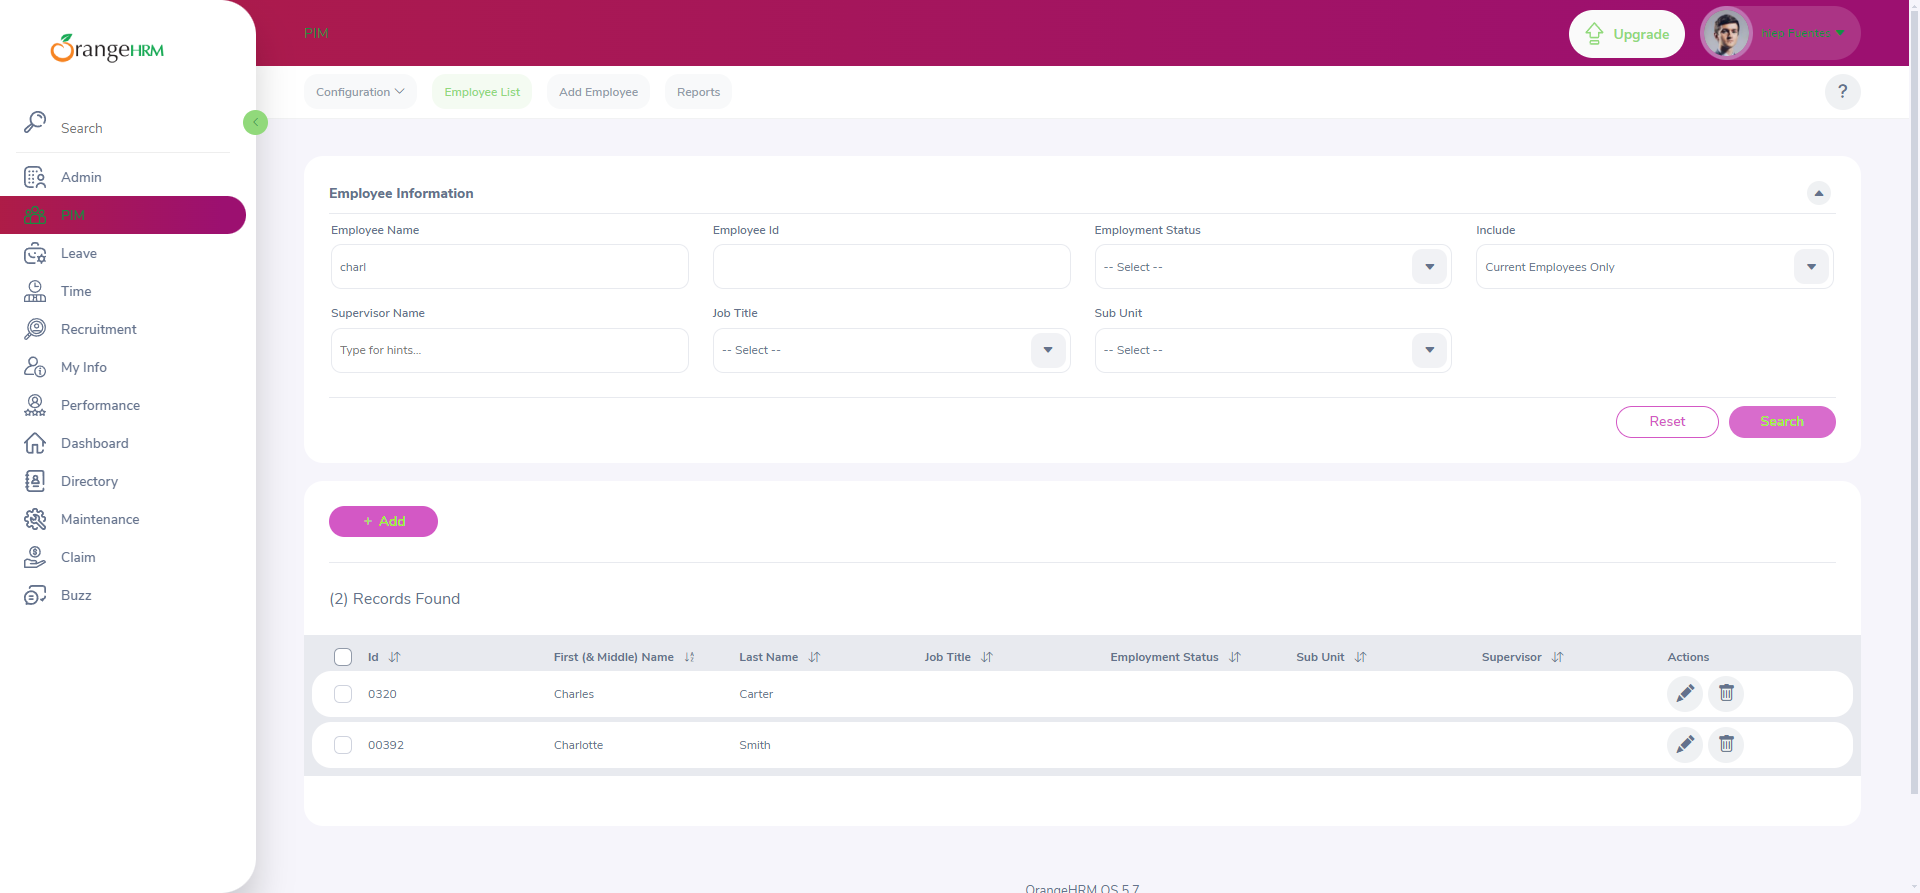
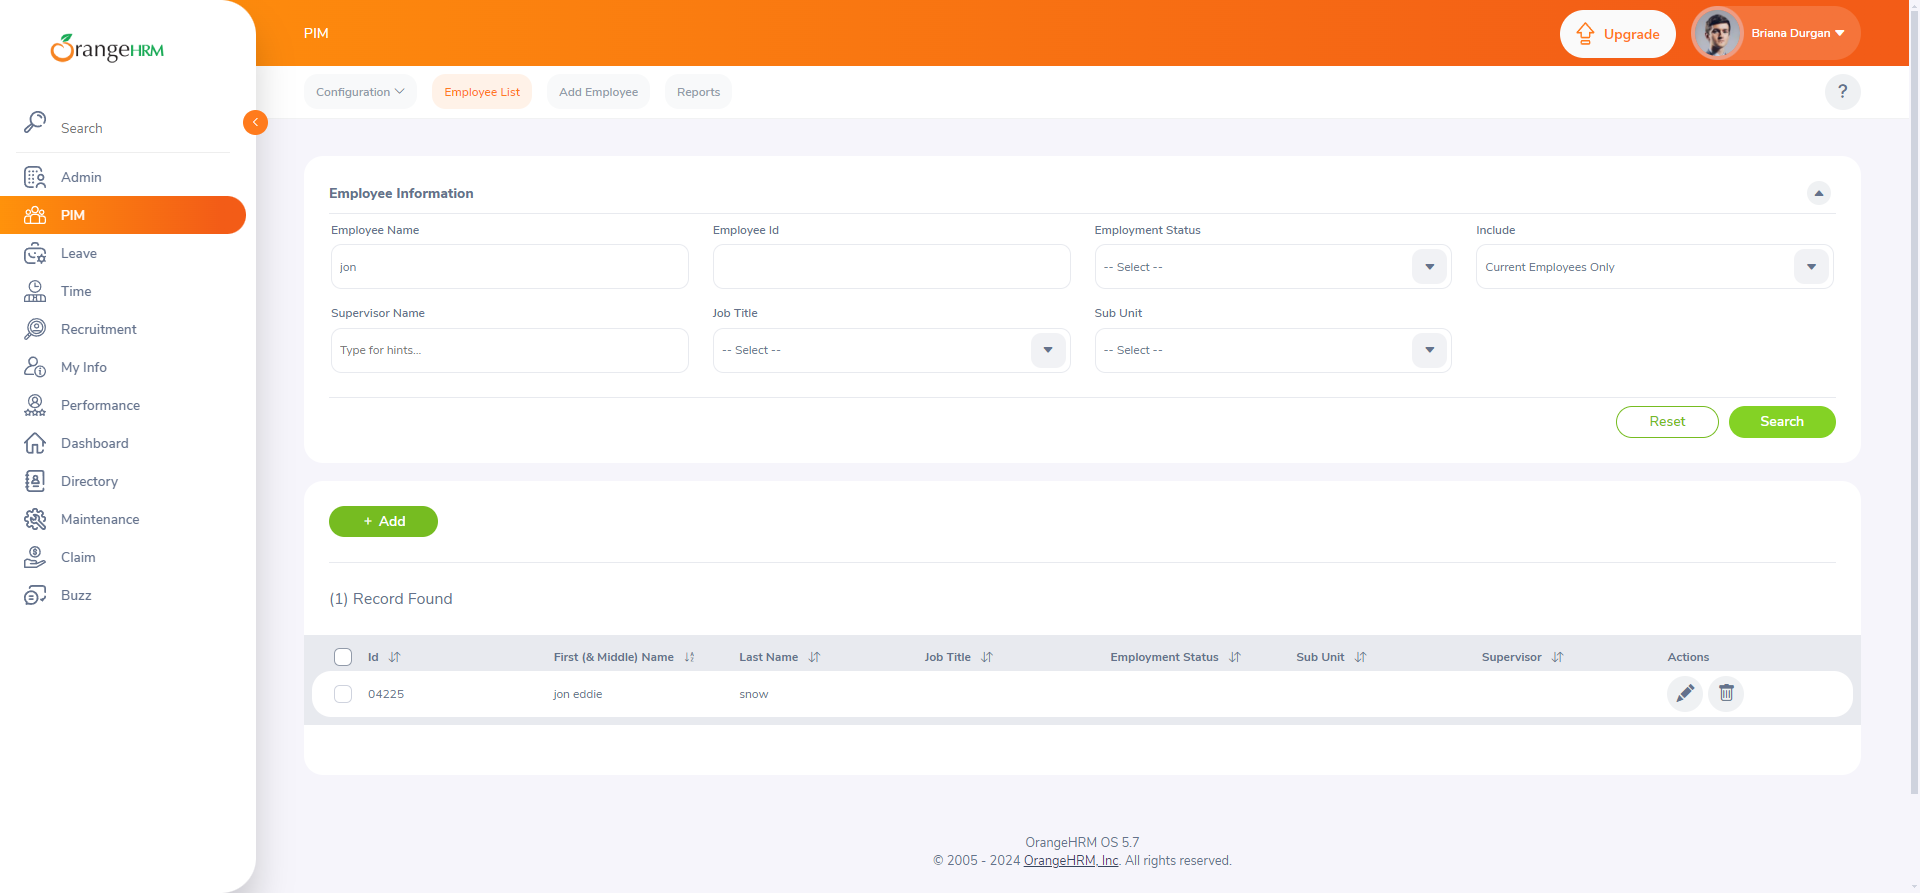
addded run.bat

diff --git a/Reports/report_regression.html b/Reports/report_regression.html
@@ -7,7 +7,7 @@
   </head>
   <body>
     <h1 id="title">Pytest HTML Report for dev</h1>
-    <p>Report generated on 07-Dec-2024 at 10:37:06 by <a href="https://pypi.python.org/pypi/pytest-html">pytest-html</a>
+    <p>Report generated on 07-Dec-2024 at 10:38:25 by <a href="https://pypi.python.org/pypi/pytest-html">pytest-html</a>
         v4.1.1</p>
     <div id="environment-header">
       <h2>Environment</h2>
@@ -61,7 +61,7 @@
         <h2>Summary</h2>
         <div class="additional-summary prefix">
         </div>
-        <p class="run-count">2 tests took 00:00:52.</p>
+        <p class="run-count">3 tests took 00:01:09.</p>
         <p class="filter">(Un)check the boxes to filter the results.</p>
         <div class="summary__reload">
           <div class="summary__reload__button hidden" onclick="location.reload()">
@@ -74,7 +74,7 @@
             <input checked="true" class="filter" name="filter_checkbox" type="checkbox" data-test-result="failed" disabled/>
             <span class="failed">0 Failed,</span>
             <input checked="true" class="filter" name="filter_checkbox" type="checkbox" data-test-result="passed" />
-            <span class="passed">2 Passed,</span>
+            <span class="passed">3 Passed,</span>
             <input checked="true" class="filter" name="filter_checkbox" type="checkbox" data-test-result="skipped" disabled/>
             <span class="skipped">0 Skipped,</span>
             <input checked="true" class="filter" name="filter_checkbox" type="checkbox" data-test-result="xfailed" disabled/>
@@ -108,7 +108,7 @@
     </table>
   </body>
   <footer>
-    <div id="data-container" data-jsonblob="{&#34;environment&#34;: {&#34;Python&#34;: &#34;3.10.2&#34;, &#34;Platform&#34;: &#34;Windows-10-10.0.22631-SP0&#34;, &#34;Plugins&#34;: {&#34;html&#34;: &#34;4.1.1&#34;, &#34;metadata&#34;: &#34;3.1.1&#34;}, &#34;Project name&#34;: &#34;Orange HRM&#34;, &#34;Tester&#34;: &#34;Anbulingam&#34;}, &#34;tests&#34;: {&#34;LoginPage.py::Test_001_login::test_login_check&#34;: [{&#34;extras&#34;: [], &#34;result&#34;: &#34;Passed&#34;, &#34;testId&#34;: &#34;LoginPage.py::Test_001_login::test_login_check&#34;, &#34;duration&#34;: &#34;00:00:16&#34;, &#34;resultsTableRow&#34;: [&#34;&lt;td class=\&#34;col-result\&#34;&gt;Passed&lt;/td&gt;&#34;, &#34;&lt;td class=\&#34;col-testId\&#34;&gt;LoginPage.py::Test_001_login::test_login_check&lt;/td&gt;&#34;, &#34;&lt;td class=\&#34;col-duration\&#34;&gt;00:00:16&lt;/td&gt;&#34;, &#34;&lt;td class=\&#34;col-links\&#34;&gt;&lt;/td&gt;&#34;], &#34;log&#34;: &#34;----------------------------- Captured stdout call -----------------------------\nLogin passed\n\n------------------------------ Captured log call -------------------------------\nINFO     root:LoginPage.py:32 ***********Setting up the driver*********\nINFO     root:LoginPage.py:37 *********Trying to Login*********\nINFO     root:LoginPage.py:42 **********Login Passed************\nINFO     root:LoginPage.py:44 *******Logged out***********\n\n&#34;}], &#34;AddEmpPage.py::Test_003_addEmp::test_addEmp&#34;: [{&#34;extras&#34;: [], &#34;result&#34;: &#34;Passed&#34;, &#34;testId&#34;: &#34;AddEmpPage.py::Test_003_addEmp::test_addEmp&#34;, &#34;duration&#34;: &#34;00:00:36&#34;, &#34;resultsTableRow&#34;: [&#34;&lt;td class=\&#34;col-result\&#34;&gt;Passed&lt;/td&gt;&#34;, &#34;&lt;td class=\&#34;col-testId\&#34;&gt;AddEmpPage.py::Test_003_addEmp::test_addEmp&lt;/td&gt;&#34;, &#34;&lt;td class=\&#34;col-duration\&#34;&gt;00:00:36&lt;/td&gt;&#34;, &#34;&lt;td class=\&#34;col-links\&#34;&gt;&lt;/td&gt;&#34;], &#34;log&#34;: &#34;----------------------------- Captured stdout call -----------------------------\nNo toaster message\n\n------------------------------ Captured log call -------------------------------\nINFO     root:AddEmpPage.py:28 *********Test003_addemp  started***********\nINFO     root:AddEmpPage.py:29 **********Logging in***************\nINFO     root:AddEmpPage.py:40 *******Logged in*************\nINFO     root:AddEmpPage.py:45 **********Employee name added*************\nINFO     root:AddEmpPage.py:48 **********Credits added*************\nINFO     root:AddEmpPage.py:50 ********Profile pic added*********\nINFO     root:AddEmpPage.py:52 **********USER ADDED Successfully****************\nINFO     root:AddEmpPage.py:75 **********Toaster not presented*************\nINFO     root:AddEmpPage.py:64 *********SCREENSHOT TAKEN*************\n\n&#34;}]}, &#34;renderCollapsed&#34;: [&#34;passed&#34;], &#34;initialSort&#34;: &#34;result&#34;, &#34;title&#34;: &#34;Pytest HTML Report for dev&#34;}"></div>
+    <div id="data-container" data-jsonblob="{&#34;environment&#34;: {&#34;Python&#34;: &#34;3.10.2&#34;, &#34;Platform&#34;: &#34;Windows-10-10.0.22631-SP0&#34;, &#34;Plugins&#34;: {&#34;html&#34;: &#34;4.1.1&#34;, &#34;metadata&#34;: &#34;3.1.1&#34;}, &#34;Project name&#34;: &#34;Orange HRM&#34;, &#34;Tester&#34;: &#34;Anbulingam&#34;}, &#34;tests&#34;: {&#34;SearchEmpPage.py::Test_004_searchEmp::test_SearchEmp&#34;: [{&#34;extras&#34;: [], &#34;result&#34;: &#34;Passed&#34;, &#34;testId&#34;: &#34;SearchEmpPage.py::Test_004_searchEmp::test_SearchEmp&#34;, &#34;duration&#34;: &#34;00:00:19&#34;, &#34;resultsTableRow&#34;: [&#34;&lt;td class=\&#34;col-result\&#34;&gt;Passed&lt;/td&gt;&#34;, &#34;&lt;td class=\&#34;col-testId\&#34;&gt;SearchEmpPage.py::Test_004_searchEmp::test_SearchEmp&lt;/td&gt;&#34;, &#34;&lt;td class=\&#34;col-duration\&#34;&gt;00:00:19&lt;/td&gt;&#34;, &#34;&lt;td class=\&#34;col-links\&#34;&gt;&lt;/td&gt;&#34;], &#34;log&#34;: &#34;----------------------------- Captured stdout call -----------------------------\n(1) Record Found\nReceived name jon eddie\nMatched name : jon eddiesnow\npass\n\n------------------------------ Captured log call -------------------------------\nINFO     root:SearchEmpPage.py:24 ***********Test004_searchEmp started*************\nINFO     root:SearchEmpPage.py:29 ***********Logging IN*************\nINFO     root:SearchEmpPage.py:33 ***********Login success*************\nINFO     root:SearchEmpPage.py:37 ***********Entering Emp-name*************\nINFO     root:SearchEmpPage.py:66 *************Name matched**********\nINFO     root:SearchEmpPage.py:50 *********Screenshot taken***************\nINFO     root:SearchEmpPage.py:51 *********SearchEmp completed***************\n\n&#34;}], &#34;DeleteEmp.py::Test_005_deleteEmp::test_deleteEmp&#34;: [{&#34;extras&#34;: [], &#34;result&#34;: &#34;Passed&#34;, &#34;testId&#34;: &#34;DeleteEmp.py::Test_005_deleteEmp::test_deleteEmp&#34;, &#34;duration&#34;: &#34;00:00:25&#34;, &#34;resultsTableRow&#34;: [&#34;&lt;td class=\&#34;col-result\&#34;&gt;Passed&lt;/td&gt;&#34;, &#34;&lt;td class=\&#34;col-testId\&#34;&gt;DeleteEmp.py::Test_005_deleteEmp::test_deleteEmp&lt;/td&gt;&#34;, &#34;&lt;td class=\&#34;col-duration\&#34;&gt;00:00:25&lt;/td&gt;&#34;, &#34;&lt;td class=\&#34;col-links\&#34;&gt;&lt;/td&gt;&#34;], &#34;log&#34;: &#34;----------------------------- Captured stdout call -----------------------------\n(1) Record Found\nNumber of rows 1\nGiven name : jon\nReceived name: jon eddie\nMatched name : jon eddiesnow\nToaster message:  Successfully Deleted\nError message Message: \n\n\n------------------------------ Captured log call -------------------------------\nINFO     root:DeleteEmp.py:23 ***********Test005_deleteEmp started*************\nINFO     root:DeleteEmp.py:28 ***********Logging IN*************\nINFO     root:DeleteEmp.py:32 ***********Login success*************\nINFO     root:DeleteEmp.py:36 ***********Entering Emp-name*************\nINFO     root:SearchEmpPage.py:103 *************Name matched**********\nINFO     root:SearchEmpPage.py:107 ***********Employee selected**************\nINFO     root:SearchEmpPage.py:110 ************Employee Deleted***************\nINFO     root:AddEmpPage.py:72 **********Toaster message presented*********\nINFO     root:DeleteEmp.py:47 *********Screenshot taken***************\n\n&#34;}], &#34;Login_DDT.py::Test_002_loginDDT::test_login_DDT&#34;: [{&#34;extras&#34;: [], &#34;result&#34;: &#34;Passed&#34;, &#34;testId&#34;: &#34;Login_DDT.py::Test_002_loginDDT::test_login_DDT&#34;, &#34;duration&#34;: &#34;00:00:25&#34;, &#34;resultsTableRow&#34;: [&#34;&lt;td class=\&#34;col-result\&#34;&gt;Passed&lt;/td&gt;&#34;, &#34;&lt;td class=\&#34;col-testId\&#34;&gt;Login_DDT.py::Test_002_loginDDT::test_login_DDT&lt;/td&gt;&#34;, &#34;&lt;td class=\&#34;col-duration\&#34;&gt;00:00:25&lt;/td&gt;&#34;, &#34;&lt;td class=\&#34;col-links\&#34;&gt;&lt;/td&gt;&#34;], &#34;log&#34;: &#34;------------------------------ Captured log call -------------------------------\nINFO     root:Login_DDT.py:19 *******Test002_loginDDT***********\nINFO     root:Login_DDT.py:20 *******Data Driven started**********\nINFO     root:Login_DDT.py:34 *********Trying to login*************\nINFO     root:Login_DDT.py:56 ********Passed**********\nINFO     root:Login_DDT.py:34 *********Trying to login*************\nINFO     root:Login_DDT.py:38 ********Passed**********\nINFO     root:Login_DDT.py:34 *********Trying to login*************\nINFO     root:Login_DDT.py:56 ********Passed**********\nINFO     root:Login_DDT.py:34 *********Trying to login*************\nINFO     root:Login_DDT.py:56 ********Passed**********\nINFO     root:Login_DDT.py:34 *********Trying to login*************\nINFO     root:Login_DDT.py:38 ********Passed**********\nINFO     root:Login_DDT.py:34 *********Trying to login*************\nINFO     root:Login_DDT.py:56 ********Passed**********\nINFO     root:Login_DDT.py:61 *******Data Driven completed*********\n\n&#34;}]}, &#34;renderCollapsed&#34;: [&#34;passed&#34;], &#34;initialSort&#34;: &#34;result&#34;, &#34;title&#34;: &#34;Pytest HTML Report for dev&#34;}"></div>
     <script>
       (function(){function r(e,n,t){function o(i,f){if(!n[i]){if(!e[i]){var c="function"==typeof require&&require;if(!f&&c)return c(i,!0);if(u)return u(i,!0);var a=new Error("Cannot find module '"+i+"'");throw a.code="MODULE_NOT_FOUND",a}var p=n[i]={exports:{}};e[i][0].call(p.exports,function(r){var n=e[i][1][r];return o(n||r)},p,p.exports,r,e,n,t)}return n[i].exports}for(var u="function"==typeof require&&require,i=0;i<t.length;i++)o(t[i]);return o}return r})()({1:[function(require,module,exports){
 const { getCollapsedCategory, setCollapsedIds } = require('./storage.js')

diff --git a/TestCases/SearchEmpPage.py b/TestCases/SearchEmpPage.py
@@ -16,9 +16,10 @@ class Test_004_searchEmp:
     logger = logGenerator.logGen()
 
     @pytest.mark.regression
-    @pytest.mark.sanity
+    #   @pytest.mark.sanity
     def test_SearchEmp(self, setup):
-        self.emp_name = input("Enter the employee name: ")
+        # self.emp_name = input("Enter the employee name: ")
+        self.emp_name = "jon"
         try:
             self.logger.info("***********Test004_searchEmp started*************")
             self.driver = setup
@@ -50,9 +51,4 @@ class Test_004_searchEmp:
             self.logger.info("*********SearchEmp completed***************")
             time.sleep(6)
 
-
 # pytest -v -s --html=./Reports/SearchEmp.html TestCases/SearchEmp.py
-
-
-
-

diff --git a/TestCases/DeleteEmp.py b/TestCases/DeleteEmp.py
@@ -17,7 +17,8 @@ class Test_005_deleteEmp:
 
     @pytest.mark.regression
     def test_deleteEmp(self, setup):
-        self.emp_name = input("enter the employee name for delete: ")
+        # self.emp_name = input("enter the employee name for delete: ")
+        self.emp_name = "jon"
         try:
             self.logger.info("***********Test005_deleteEmp started*************")
             self.driver = setup
